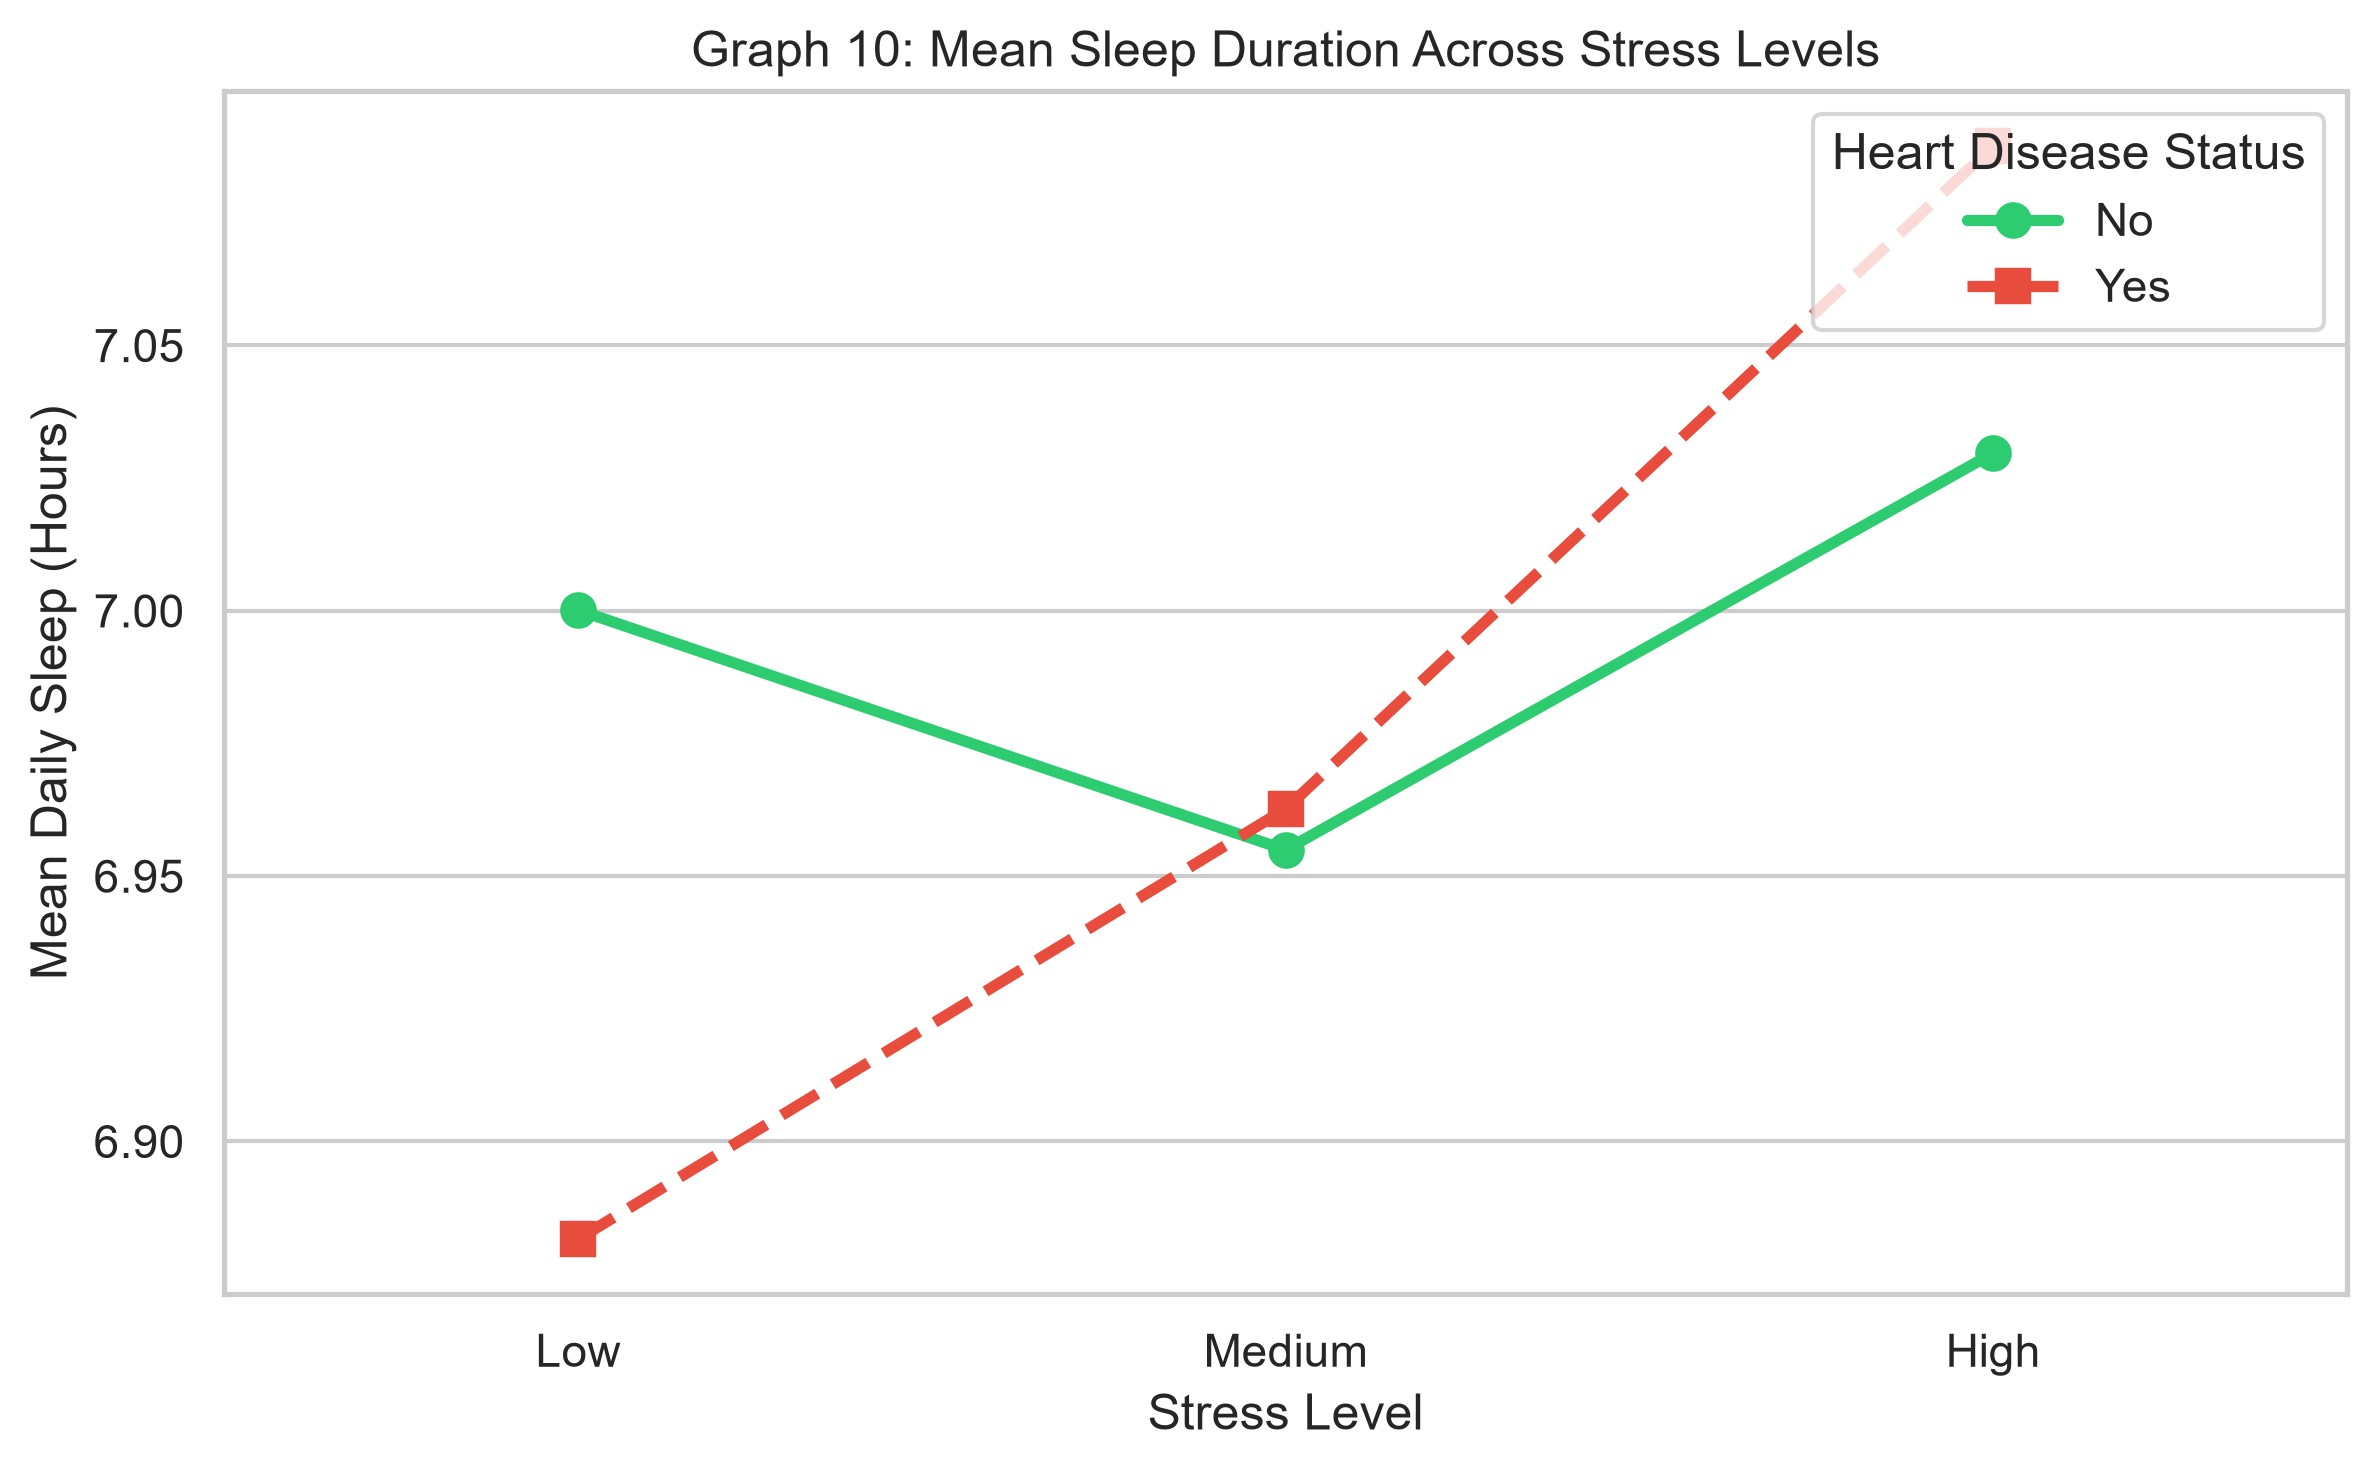
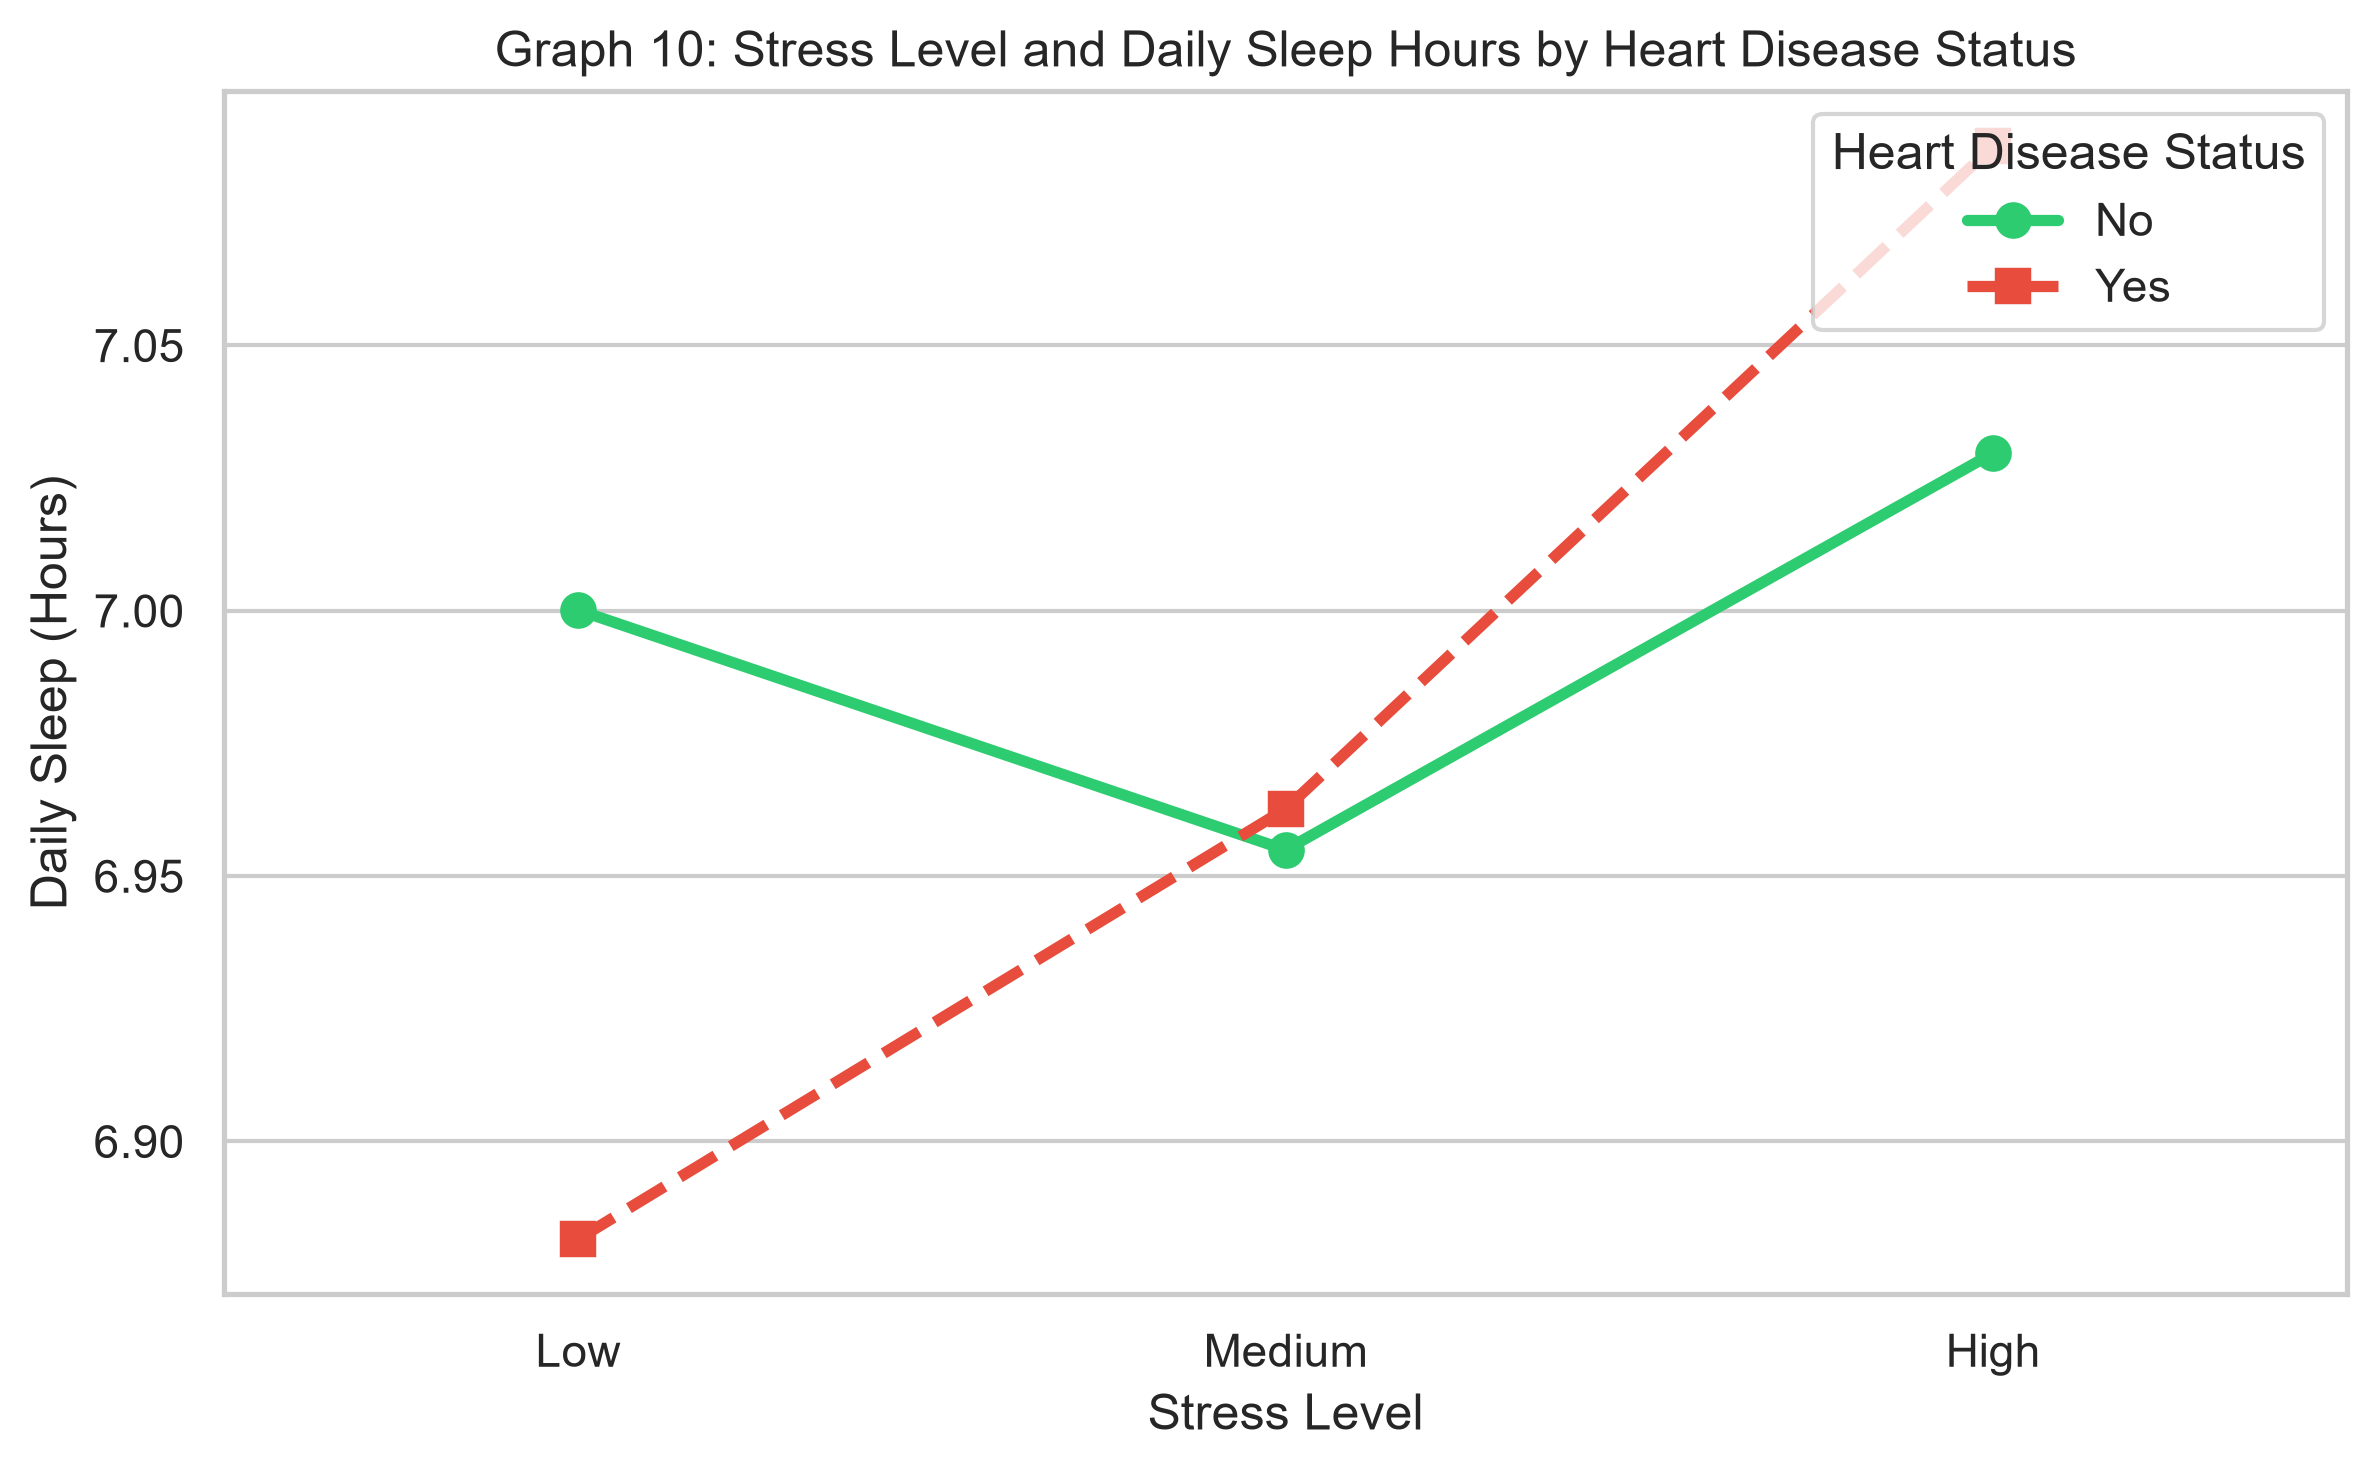
update graph

Changed region(s): [[0.2179, 0.0, 0.8717, 0.0612], [0.0, 0.2755, 0.0311, 0.6735]]

diff --git a/Graph/graph_9_to_12.py b/Graph/graph_9_to_12.py
@@ -224,7 +224,7 @@ plt.close()
 
 
 # =========================================================================
-# GRAPH 10: Mean Sleep Duration Across Stress Levels
+# GRAPH 10: Stress Level and Daily Sleep Hours by Heart Disease Status
 # =========================================================================
 
 # Create Stress Level if it does not already exist
@@ -261,11 +261,11 @@ if (
     )
 
     plt.title(
-        "Graph 10: Mean Sleep Duration Across Stress Levels"
+        "Graph 10: Stress Level and Daily Sleep Hours by Heart Disease Status"
     )
 
     plt.xlabel("Stress Level")
-    plt.ylabel("Mean Daily Sleep (Hours)")
+    plt.ylabel("Daily Sleep (Hours)")
 
     plt.legend(
         title="Heart Disease Status",
@@ -292,7 +292,7 @@ else:
     )
 
 # =========================================================================
-# GRAPH 11: Data Completeness Audit
+# GRAPH 11: Missing Value
 # =========================================================================
 
 missing_pct = (
@@ -323,7 +323,7 @@ sns.barplot(
 )
 
 plt.title(
-    "Graph 11: Data Completeness Audit (Missingness Percentage)"
+    "Graph 11: Missing Value"
 )
 
 plt.xlabel("")
@@ -358,7 +358,7 @@ plt.close()
 
 
 # =========================================================================
-# GRAPH 12: CRP Level Across Alcohol Habits
+# GRAPH 12: CRP Level across Alcohol Consumption Categories
 # =========================================================================
 
 if (
@@ -413,7 +413,7 @@ if (
     )
 
     plt.title(
-        "Graph 12: Inflammatory Marker (CRP Level) across Alcohol Habits"
+        "Graph 12: CRP Level across Alcohol Consumption Categories"
     )
 
     plt.xlabel("Alcohol Consumption")
